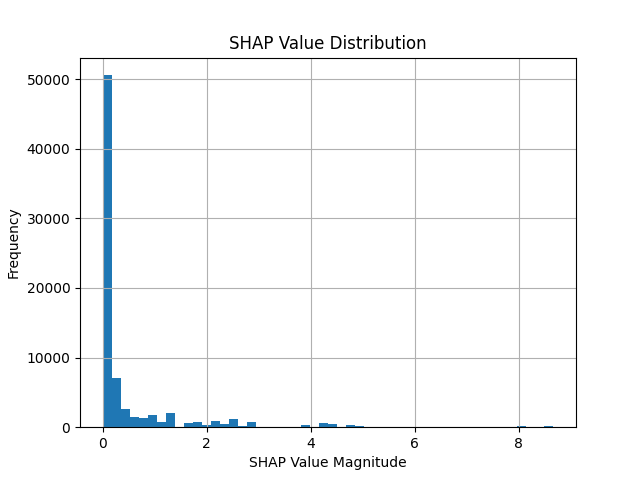
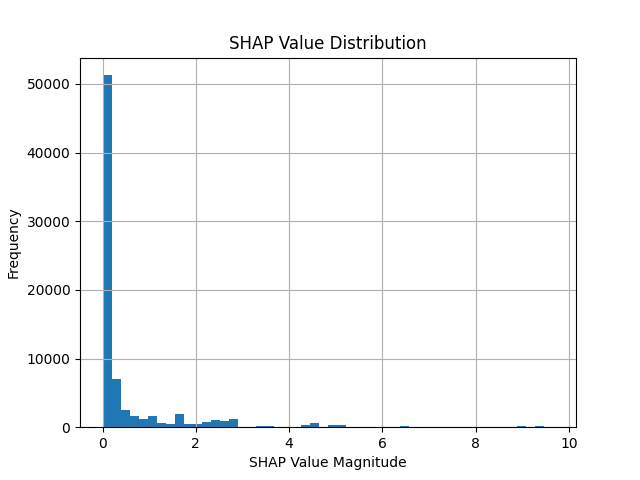
Improved

diff --git a/src/client.py b/src/client.py
@@ -120,9 +120,9 @@ def create_clients_dirichlet(X, y, num_clients=5, alpha=0.3):
 def train_client(X, y):
 
     model = LGBMClassifier(
-        n_estimators=100,
+        n_estimators=180,
         max_depth=6,
-        learning_rate=0.1,
+        learning_rate=0.07,
         class_weight="balanced",
         verbosity=-1
     )
